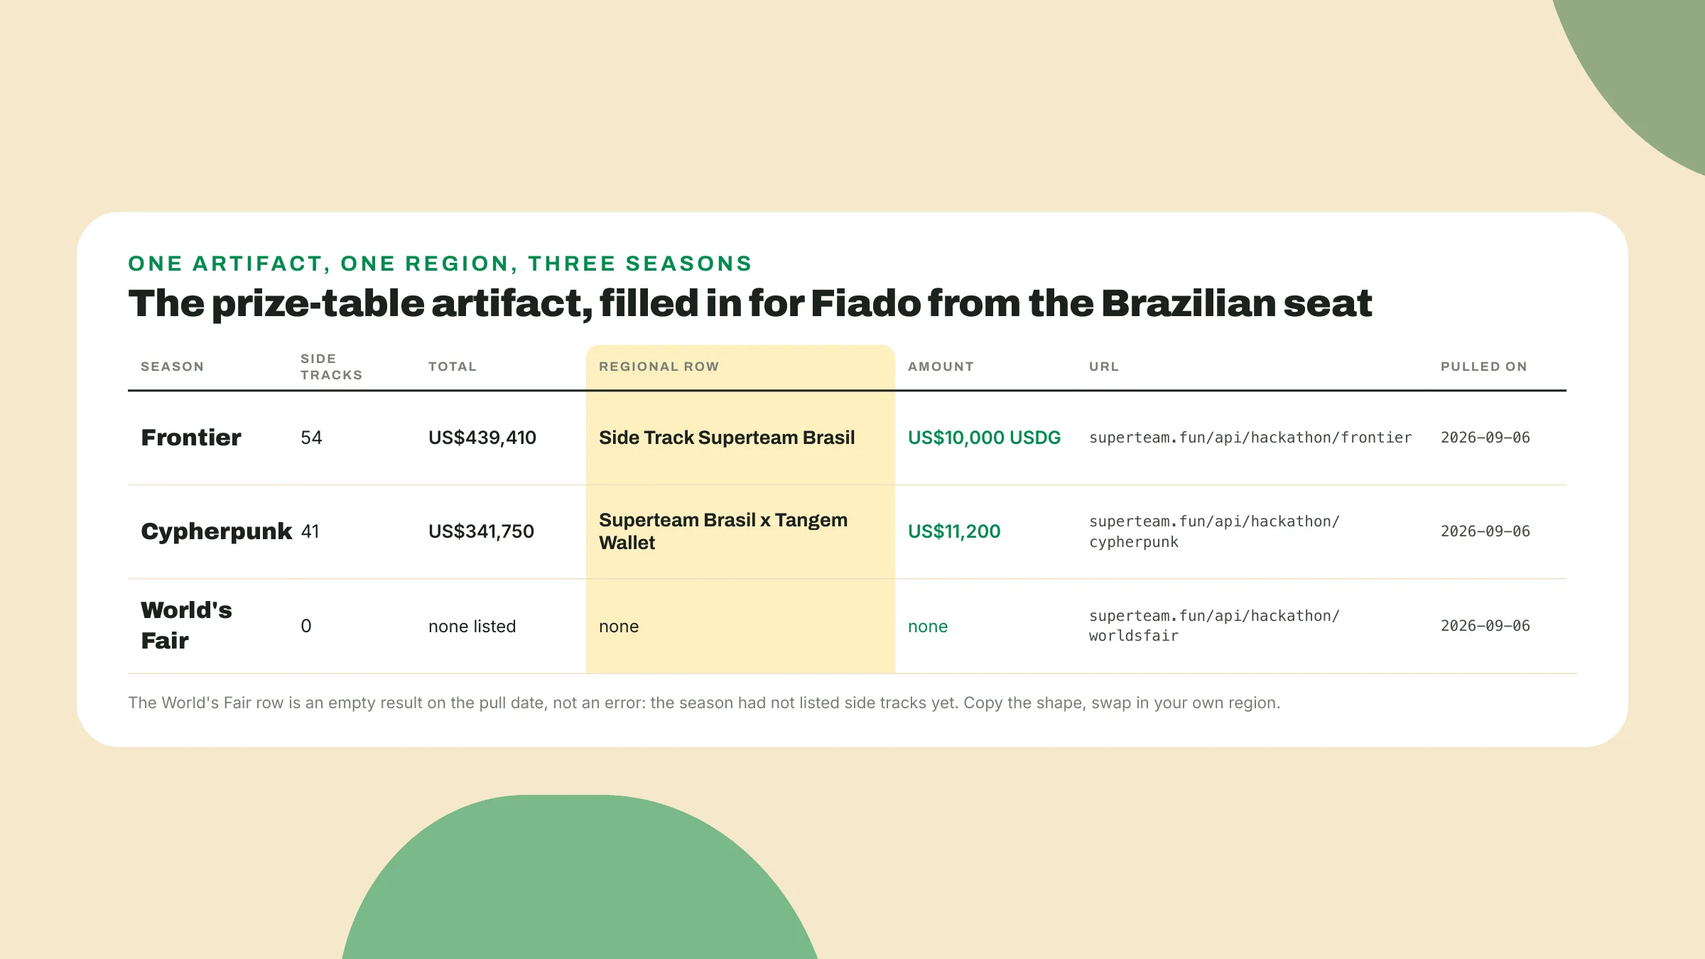
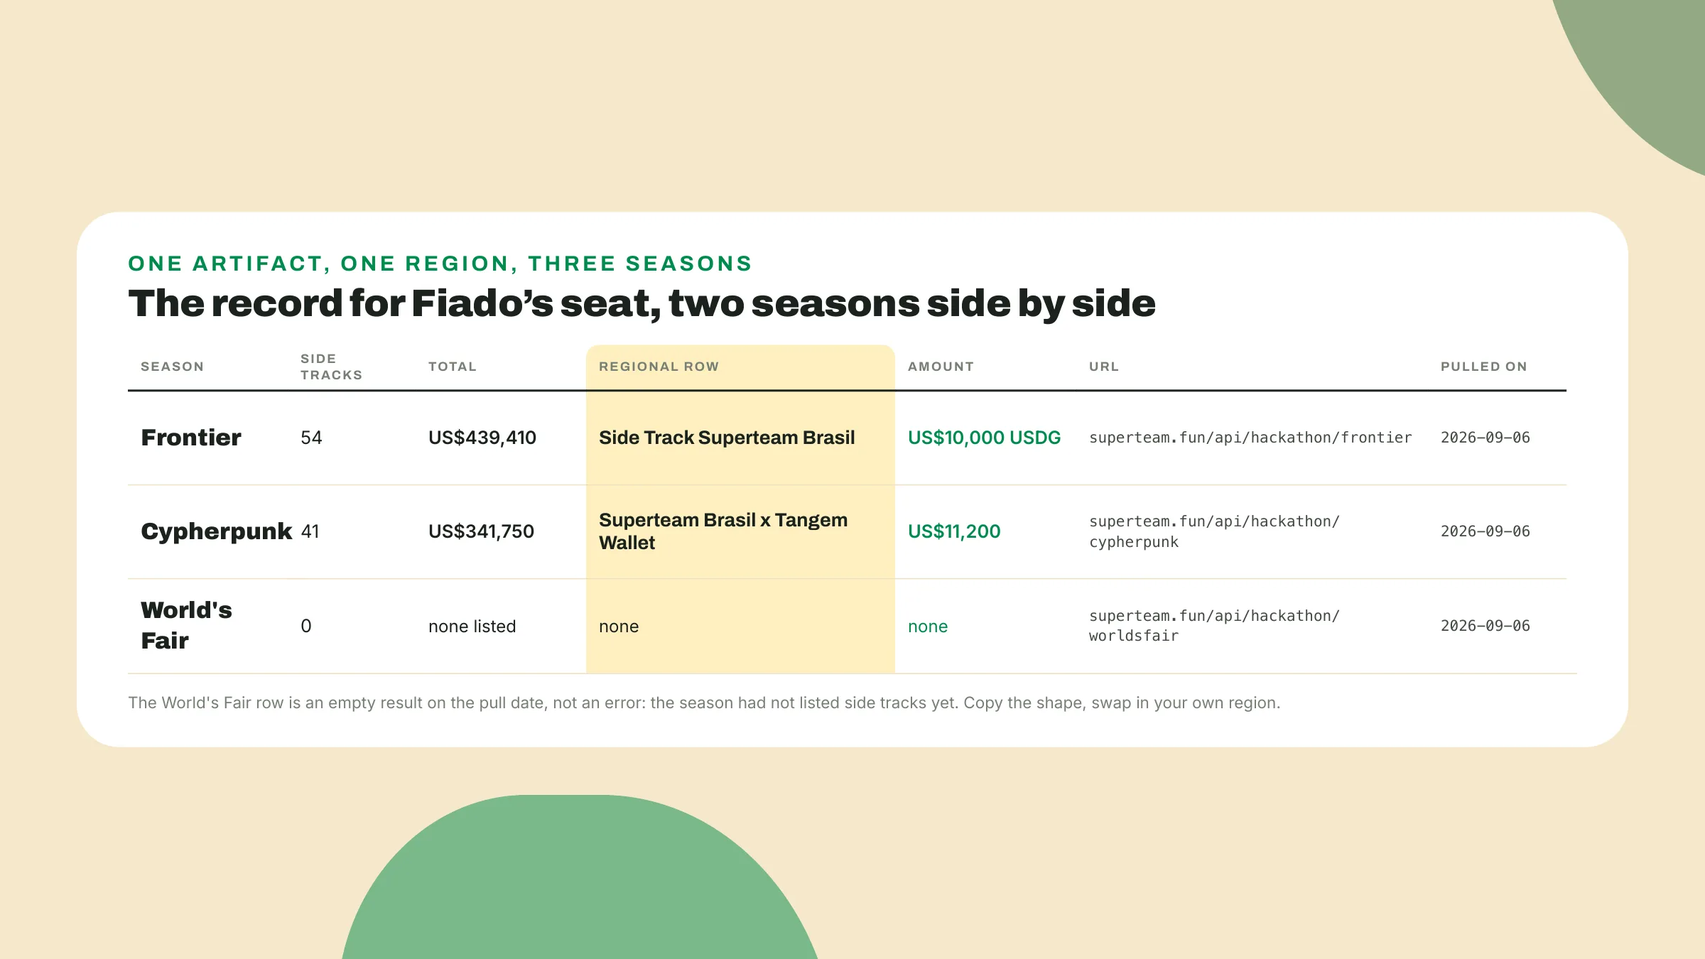
content(solana-hackathon-expert): owner feedback round 3 — lesson 1 shows the record instead of assigning homework, Dubai example reframed, day-0 pattern depersonalized, Fiado introduced explicitly

Changed region(s): [[0.125, 0.28, 0.8125, 0.3422]]

diff --git a/courses/solana-hackathon-expert/visual-src/the-record/v03-table.html b/courses/solana-hackathon-expert/visual-src/the-record/v03-table.html
@@ -29,8 +29,8 @@
 .foot{margin-top:16px;font-size:15px;color:var(--text-muted)}
 </style></head>
 <body>
-<!-- table: The prize-table artifact, filled in for Fiado from the Brazilian seat
-     purpose: show the exact shape the artifact takes so the reader copies the shape and swaps in their own region
+<!-- table: The record for Fiado's seat, two seasons side by side
+     purpose: show the shape of the record so the reader can picture the same rows for their own region
      data: Columns: season | side tracks | total | regional row | amount | URL | pulled on Frontier | 54 | US$439,410 | Side Track Superteam Brasil | US$10,000 USDG | superteam.fun/api/hackathon/frontier | 2026-09-06 Cypherpunk | 41 | US$341,750 | Superteam Brasil x Tangem Wallet | US$11,200 | superteam.fun/api/hackathon/cypherpunk | 2026-09-06 World's Fair | 0 | none listed | none | none | superteam.fun/api/hackathon/worldsfair | 2026-09-06
      prompt: A designed data table with seven columns and three rows, using the data exactly. The regional row column is the focal cell of each row. The World's Fair row reads as an empty result rather than as an error. Structural layout only; leave styling to the brand system.
      BUILD .viz as on-brand HTML per skills/content-gen/references/visual-rendering.md.
@@ -45,7 +45,7 @@
 <div class="viz">
 <div class="card">
   <div class="stbr-eyebrow">One artifact, one region, three seasons</div>
-  <h2 class="viz-title">The prize-table artifact, filled in for Fiado from the Brazilian seat</h2>
+  <h2 class="viz-title">The record for Fiado’s seat, two seasons side by side</h2>
   <div class="tbl">
     <div class="col season"><div class="h">season</div><div class="c">Frontier</div><div class="c">Cypherpunk</div><div class="c">World's Fair</div></div>
     <div class="col tracks"><div class="h">side tracks</div><div class="c">54</div><div class="c">41</div><div class="c">0</div></div>

diff --git a/courses/solana-hackathon-expert/lessons/the-record/intro.md b/courses/solana-hackathon-expert/lessons/the-record/intro.md
@@ -1,14 +1,10 @@
-# Run the record
+# The record
 
-## Open the file most teams never opened
+## The file most teams never opened
 
-Somewhere in a public JSON file there is a line that says Superteam Brasil put **ten thousand dollars on the table** for Brazilian teams in the last global season. My guess is that most of the teams that could have claimed it **never opened the file**. You are going to open it in the next two minutes, *before anything in this lesson gets a name*. Open a terminal:
+Somewhere in a public JSON file there is a line that says Superteam Brasil put **ten thousand dollars on the table** for Brazilian teams in the last global season. My guess is that most of the teams that could have claimed it **never opened the file**. This lesson shows you what is in it, *so you start the month knowing what the teams that skipped it did not*.
 
-```bash
-curl -sL https://superteam.fun/api/hackathon/frontier | python3 -m json.tool
-```
-
-What comes back is a list, one entry per side track that Superteam Earn ran alongside Colosseum's Frontier season. Scroll until the word Brasil shows up, or run the curl again with `grep -i brasil` on the end, then **count the entries**. Pulled on 2026-09-06, as of the 2026 World's Fair season, the file said this:
+Here is the Frontier row, the last completed global season, pulled on 2026-09-06:
 
 ```text
 season       Frontier (the last completed global season)
@@ -17,41 +13,35 @@ total        US$439,410
 one row      Side Track Superteam Brasil, US$10,000 USDG
 ```
 
-None of it was hidden. It sat behind a public URL for the whole season, and the teams that read it knew something the teams that skipped it did not: a Colosseum season pays out of **more than one pot**, a main prize and a long list of regional prizes, each with its own sponsor and its own ask, *won with the same submission*. A hackathon month has a record, and **the record is queryable**.
+None of it was hidden. It sat behind a public URL for the whole season: one entry per side track that Superteam Earn ran alongside Colosseum's Frontier season, each with a sponsor, an amount and an ask. If you ever want to see the live version yourself, one command returns the whole list, and *you will not need it more than once or twice a season*:
+
+```bash
+curl -sL https://superteam.fun/api/hackathon/frontier | python3 -m json.tool
+```
+
+What the teams that read it knew is simple: a Colosseum season pays out of **more than one pot**, a main prize and a long list of regional prizes, each with its own sponsor and its own ask, *won with the same submission*. A hackathon month has a record, and **the record is public**.
 
 ![One endpoint returns Frontier's 54 side tracks worth US$439,410, filtered down to the US$10,000 USDG Superteam Brasil row, while /earn/ prefixed links end in a 404.](assets/v01-flowchart.webp)
 
-## Do this
+## The team that lost three times first
 
-1. **Write the Frontier row down** while it is on your screen: 54 side tracks, US$439,410 in total, Side Track Superteam Brasil at US$10,000 USDG, the URL, and the date you pulled it.
-
-2. Open colosseum.com/hackathon in a browser, **find the Unruggable card** and read it. It says the team competed in four hackathons before winning the grand prize: Renaissance, an honorable mention. Radar, another honorable mention. Breakout, first place in a track. Cypherpunk, the grand prize. That is the record as Colosseum's card put it on 2026-09-08, and the same page, read 2026-09-06, said it runs **two global hackathons a year**, April to May and September to October. A team that treats one season as a verdict *is throwing away the second half of the year*.
+Open colosseum.com/hackathon in a browser and **find the Unruggable card**. It says the team competed in four hackathons before winning the grand prize: Renaissance, an honorable mention. Radar, another honorable mention. Breakout, first place in a track. Cypherpunk, the grand prize. That is the record as Colosseum's card put it on 2026-09-08, and the same page, read 2026-09-06, said Colosseum runs **two global hackathons a year**, April to May and September to October. A team that treats one season as a verdict *is throwing away the second half of the year*.
 
 ![Unruggable took honorable mentions at Renaissance and Radar, first place in a Breakout track, then the Cypherpunk grand prize, four seasons at two a year.](assets/v02-timeline.webp)
 
-3. **Change one word in the command** and pull the season before Frontier:
+## Two seasons, side by side
 
-   ```bash
-   curl -sL https://superteam.fun/api/hackathon/cypherpunk | python3 -m json.tool
-   ```
+The season before Frontier tells the other half of the story. Change one word in that command, frontier to cypherpunk, and the endpoint answers for the earlier season. Pulled on 2026-09-06, Cypherpunk carried **41 side tracks** totalling US$341,750, and the Brazilian row read Superteam Brasil x Tangem Wallet at **US$11,200**. Between the two seasons *the count went up* and the Brazilian row went from a co-sponsored track to a single-sponsor one with a smaller amount. Change the word to worldsfair and, on the same date, the endpoint returned **an empty list**: no side tracks published yet for a season that had not opened. *An empty answer is part of the record too*, and it tells you the page is worth a second look once the season opens.
 
-   Count again and find the Brazilian row again. Pulled on 2026-09-06, Cypherpunk carried **41 side tracks** totalling US$341,750, and the Brazilian row read Superteam Brasil x Tangem Wallet at US$11,200. *The count went up between the seasons* and the row went from a co-sponsored track to a single-sponsor one with a smaller amount. Write it down with the same four things next to it.
-
-4. **Change the word once more**, to worldsfair. On 2026-09-06 that endpoint returned **an empty list**, no side tracks published yet for a season that had not opened. Write that row down too. *An empty row is part of the record*, and it is the row that tells you when to come back and pull again.
-
-5. **Make a folder** named after your project or after the month, and put a file called prize-table at its root, Markdown or a spreadsheet. That folder becomes **the toolkit repo on day 0**, in the third lesson. Every lesson from here carries the same example project, Fiado: a Brazilian corner shop's credit notebook, the name, running total and date the owner keeps by the till, turned into a stablecoin-settled tab with a repayment reminder. *Fiado is Brazilian, so its regional row is the Superteam Brasil one*, and its prize table looks like this:
+The course carries one example project through every lesson, and this is where you meet it. **Fiado** is a Brazilian corner shop's credit notebook, the name, running total and date the owner keeps by the till, turned into a stablecoin-settled tab with a repayment reminder. *Fiado is Brazilian, so its regional row is the Superteam Brasil one*, and its two seasons of the record look like this:
 
 ![Frontier shows 54 tracks and US$439,410 with a US$10,000 USDG Superteam Brasil row, Cypherpunk shows 41 tracks and US$341,750 with a US$11,200 row, and World's Fair was still empty.](assets/v03-table.webp)
 
-6. Now your own row. **Pull Frontier and Cypherpunk again**, find the row with your region's Superteam on it in each, and record both in the same shape. *If your region has no row in one of the seasons*, write that down as well.
-
-7. **Pick a country** that is not yours, find its row in one of the two seasons, and write one line on what its sponsor asked for.
+Two things in that table are worth holding on to. First, **every number carries a date**, because the record tells you where the money and the crowd were last season and nothing certain about where they will be this one. When your season opens, the page is worth *one fresh look*, not a habit of re-pulling. Second, your own region has a row in that list, or an absent row, and so does every neighbouring country, each with **its own sponsor and its own ask**. A Brazilian team entering Frontier was in two contests at once with the same submission, one global and one against only its own country, and that asymmetry is, I think, *the most under-used fact in Solana hackathons*. The regional row is the shortest path to a prize, and *what Colosseum's judges score is what makes a project worth a prize at all*, so a good month holds both.
 
 ## Four words, the month, three rules
 
-**A global season** is one of Colosseum's two hackathons a year, and the clock in this course is the month between its opening and its submission deadline. **A side track** is a regional prize attached to a global season, a sponsor, most often a regional Superteam, putting up an amount and an ask. **A regional bounty** is the side track whose sponsor is your region's Superteam, which put a Brazilian team entering Frontier in two contests at once with the same submission, one global and one against only its own country. That asymmetry is, I think, *the most under-used fact in Solana hackathons*.
-
-**A rehearsal** is any other competition you enter with the same package: a Colosseum global season is the target, and a Superteam Brasil seasonal hackathon before the next Colosseum season or a Superteam Earn side track alongside the season you enter *is a rehearsal*.
+**A global season** is one of Colosseum's two hackathons a year, and the clock in this course is the month between its opening and its submission deadline. **A side track** is a regional prize attached to a global season, a sponsor, most often a regional Superteam, putting up an amount and an ask. **A regional bounty** is the side track whose sponsor is your region's Superteam. **A rehearsal** is any other competition you enter with the same package: a Colosseum global season is the target, and a Superteam Brasil seasonal hackathon before the next Colosseum season or a Superteam Earn side track alongside the season you enter *is a rehearsal*.
 
 The lesson order **follows the calendar**. Before the clock, you read the hackathon's page and its judging criteria, confirm a team, write a first pitch and set up the toolkit repo on day 0. Week 1 takes an idea to evidence and a written **kill, pivot or commit decision**. Weeks 2 and 3 build the demoable slice on devnet. Week 4 *turns the slice into the story*. Submit assembles the package and writes a next-season plan, and Rehearsal, optional, exports it to the rehearsal hackathons.
 
@@ -59,27 +49,12 @@ On the last day **you hold six things**: a devnet demo slice, a deck, a presenta
 
 Three house rules:
 
-1. You run the thing **before it gets a name**, and every later lesson puts a command, a query or a page inside its first few hundred words.
+1. You see the thing **before it gets a name**, and every later lesson puts a command, a query or a page inside its first few hundred words.
 2. **The pitch exists from day 0**, and the first version is allowed to be wrong, *it is not allowed to not exist*.
 3. **Check every piece against the seven judging factors** and the sponsor's ask before you move on, and *the next piece does not start until the current one passed honestly*.
 
 ![The course walks six stretches, before the clock, week 1, weeks 2 and 3, week 4, submit and the optional rehearsal, each producing named artifacts with the pitch versioned from v0.](assets/v04-timeline.webp)
 
-## Done when
-
-- The **prize-table file** exists at the root of your project folder.
-- **Two season totals** are recorded, Frontier and Cypherpunk, each with the URL and the date you pulled it.
-- **Two regional rows** for your region are recorded, or an absent row is noted, each with URL and pull date.
-- **One line** on a neighbouring country's sponsor ask sits under them.
-
-Keep the file open, *the next lesson asks for it*.
-
-## Watch out
-
-- **Copying last season's dates**, amount or sponsor ask into this season's plan: the record tells you where the money and the crowd were last season and nothing certain about where they will be this one, *so pull it again every season and put a date next to every number*.
-- **Treating links with an /earn/ prefix** in the path as canonical: on 2026-09-06 they returned a 404 to a plain fetch, and the addresses that work are superteam.fun/earn and earn.superteam.fun/hackathon/all, which lists every season Earn ran a side-track table for.
-- **Building for the side track** and letting the main competition go: the regional row is the shortest path to a prize, and *what Colosseum's judges score is what makes a project worth a prize at all*, so hold both.
-
 ## Next lesson: the seven factors
 
-You have the prize table. Next lesson you **open Colosseum's hackathon page** and read the seven judging factors it publishes, one at a time, the way a judge reads them, and copy them into a file with the date on the first line. The first thing you will notice is that *code quality is not one of them*.
+You know the prize table. Next lesson you **open Colosseum's hackathon page** and read the seven judging factors it publishes, one at a time, the way a judge reads them, and copy them into a file with the date on the first line. The first thing you will notice is that *code quality is not one of them*.

diff --git a/courses/solana-hackathon-expert/lessons/rehearsal/intro.md b/courses/solana-hackathon-expert/lessons/rehearsal/intro.md
@@ -6,7 +6,7 @@ Last lesson you wrote the next-season plan and named the date the next Colosseum
 
 Open hackathon.superteam.com.br/h and **create a file called rehearsal-plan.md**.
 
-Superteam Brasil put a **US$10,000 USDG side track**, a regional prize attached to the Colosseum season, on Colosseum's Frontier season, the row in your prize table from lesson 1. One season earlier, on Cypherpunk, 299 people registered through Superteam Brasil's funnel, 52 projects were submitted, 7 classified and 2 awarded, per Cointelegraph Brasil, read 2026-09-06. The article does not spell out the 7, *and I read it loosely as the region's own selection*, so **keep the four numbers exact**. One of the two, Cloak (x.com/cloak_ag), **placed third** in the global Stablecoin Track with US$15,000, behind MCPay's first with US$25,000, and as of 2026-09-06 its site says it is backed by a US$250,000 pre-seed through the Colosseum Accelerator. *Third was enough.*
+Superteam Brasil put a **US$10,000 USDG side track**, a regional prize attached to the Colosseum season, on Colosseum's Frontier season, the row you read in lesson 1. One season earlier, on Cypherpunk, 299 people registered through Superteam Brasil's funnel, 52 projects were submitted, 7 classified and 2 awarded, per Cointelegraph Brasil, read 2026-09-06. The article does not spell out the 7, *and I read it loosely as the region's own selection*, so **keep the four numbers exact**. One of the two, Cloak (x.com/cloak_ag), **placed third** in the global Stablecoin Track with US$15,000, behind MCPay's first with US$25,000, and as of 2026-09-06 its site says it is backed by a US$250,000 pre-seed through the Colosseum Accelerator. *Third was enough.*
 
 A rehearsal is any **seasonal hackathon or Earn side track** that takes the package you have and tests how you deliver it, the same package under a smaller spec and a shorter clock. It costs a week of the month and a second set of forms, *so the plan names one and says no to the rest in writing*.
 
@@ -82,7 +82,7 @@ changes        written after the pitch day, from the panel's scores, before the 
 ## Watch out
 
 - **The edition's own criteria** are not the target. Colosseum's seven factors from lesson 2 are, and a criterion the edition scores and Colosseum does not is information about that edition, not a reason to move a slide.
-- **Last season's side-track amount** is not this season's, and it is the easy mistake because the old number is already in your prize table.
+- **Last season's side-track amount** is not this season's, and it is the easy mistake because the old number is already in your head.
 - **Nobody in the room** at an in-person final turns the rehearsal into a form, and that is the mistake that costs the most.
 
 ## The takeaway

diff --git a/courses/solana-hackathon-expert/lessons/day-zero/intro.md b/courses/solana-hackathon-expert/lessons/day-zero/intro.md
@@ -4,22 +4,20 @@ Last lesson you wrote the Colosseum brief: seven factors quoted from the live pa
 
 ## Why this matters
 
-In my last Colosseum edition the month went to code. The presentation I planned near the end, with no month left to improve it, and I had shown the project to too few people outside the team, so the feedback that would have fixed the pitch arrived too late. *The fix is not a better deck in week 4.* It is a sentence on day 0 and a person whose job is to keep rewriting it.
+The losing month has a shape I have watched many times: the month goes to code. The presentation gets planned near the end, with no month left to improve it, and the project was shown to too few people outside the team, so the feedback that would have fixed the pitch arrives too late. *The fix is not a better deck in week 4.* It is a sentence on day 0 and a person whose job is to keep rewriting it.
 
 The one idea: the month is **planned backward from the package**, and the pitch is an artifact from day 0. Open a new file called **team-card.md** and put today's date on the first line. It is due *before the clock starts*, whatever your season is.
 
 ## Do this
 
-1. **Turn the folder** you made for the prize table in the first lesson into the toolkit repo:
+1. **Create the toolkit repo**: make a folder named after your project and initialize git in it.
 
 ```bash
-cd <your-folder>
+mkdir <your-project> && cd <your-project>
 git init
-git add prize-table.md
-git commit -m "prize table, 2026-09-06"
 ```
 
-**Commit team-card.md** there before you close the day.
+**Save team-card.md at its root and commit it** before you close the day, *and every artifact the course produces from here lives in this repo*.
 
 2. **Install the kit**. The course runs on Claude Code with the Solana AI Kit plugin from solanabr/solana-ai-kit, and the install command is the one in the kit's README, read on the day you run it. Read 2026-09-07 the kit's plugin/skills folder carried **three skills**, hackathon, idea-sprint and pitch-deck, at commit 353e9a1 from 2026-08-20. *The kit moves between editions, so the README wins over this lesson.* Open Claude Code inside the repo and ask it to **list the kit's skills**. If those three names come back, the kit is in. If not, the README is the next page.
 

diff --git a/courses/solana-hackathon-expert/lessons/read-the-rubric/intro.md b/courses/solana-hackathon-expert/lessons/read-the-rubric/intro.md
@@ -1,12 +1,12 @@
 # What winning means at Colosseum
 
-Last lesson you pulled the record into a prize table: two seasons of side tracks, and the four hackathons Unruggable entered before it won one, read off its card on colosseum.com/hackathon. Keep it open. This lesson writes the file that says *what that table is worth to you*.
+Last lesson you read the record: two seasons of side tracks, and the four hackathons Unruggable entered before it won one, read off its card on colosseum.com/hackathon. This lesson writes the file that says *what that record is worth to you*.
 
 ## Why this matters
 
 Colosseum reviews your repository, and its hackathon page, as of the 2026 World's Fair season, says in its own words that the review is not looking at your language, your framework, your patterns or your code quality. *Read that twice.* The same page says that Colosseum hackathons are startup competitions. That is the one idea: **the judging criteria tell you exactly what gets scored**, and what gets scored is a company, not the code.
 
-I won a hackathon in Dubai with an idea I thought too simple to place, and no planned demo. It matched exactly what the organizers were looking for and the pitch sold it, and *none of that was about the code*. Luck is not a plan you can hand to a teammate. The brief is.
+I always like giving the example of an in-person hackathon I won in Dubai, with an idea I thought too simple to place and no planned demo. It matched exactly what the organizers were looking for and the pitch sold it, and *none of that was about the code*. Luck is not a plan you can hand to a teammate. The brief is.
 
 ## Do this
 

diff --git a/courses/solana-hackathon-expert/lessons/after/intro.md b/courses/solana-hackathon-expert/lessons/after/intro.md
@@ -111,7 +111,7 @@ four questions under every set of judging criteria:  is the problem real / does 
 Colosseum adds two:                 Viability, Traction
 house rules:                        run before naming / pitch from day 0 / check every piece against the page
 
-pieces: 1 prize table                  9 devnet slice, one real transaction
+pieces: 1 the record, read             9 devnet slice, one real transaction
         2 Colosseum brief             10 narrative log + pitch v2
         3 team card + month plan      11 GTM one-pager + partner list
           + pitch v0                  12 deck + final pitch

diff --git a/courses/solana-hackathon-expert/lessons/ideation/intro.md b/courses/solana-hackathon-expert/lessons/ideation/intro.md
@@ -10,6 +10,8 @@ So today you generate three ideas problem-first and score them until one survive
 
 ## Run the sprint on Fiado
 
+A reminder before the first step: **Fiado is the course's example project**, nothing more. It is the corner-shop credit notebook from lesson 1, turned into a stablecoin-settled tab, and every lab in this course runs on it first *so you always have a worked example to copy*. You then run the same steps on your own problem.
+
 1. **Ask for the idea-sprint skill** by name, with the Fiado problem as the input, in your own words:
 
 ```text
